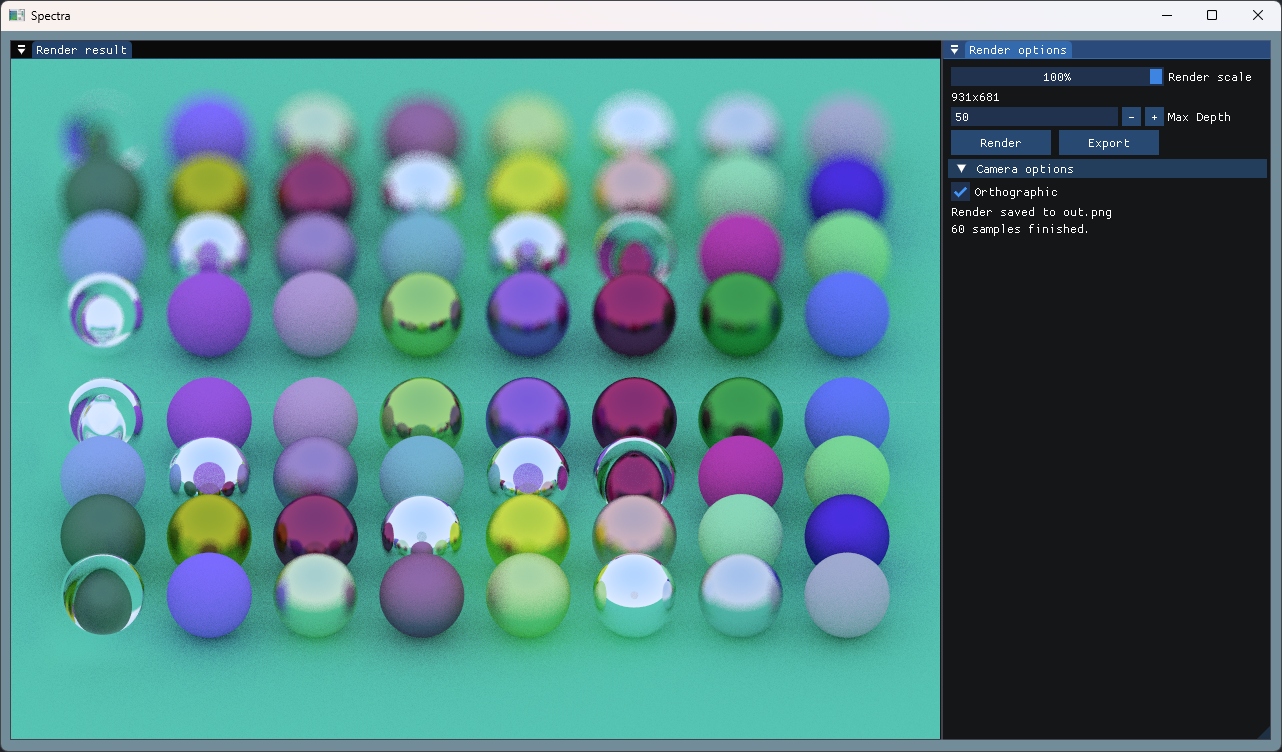
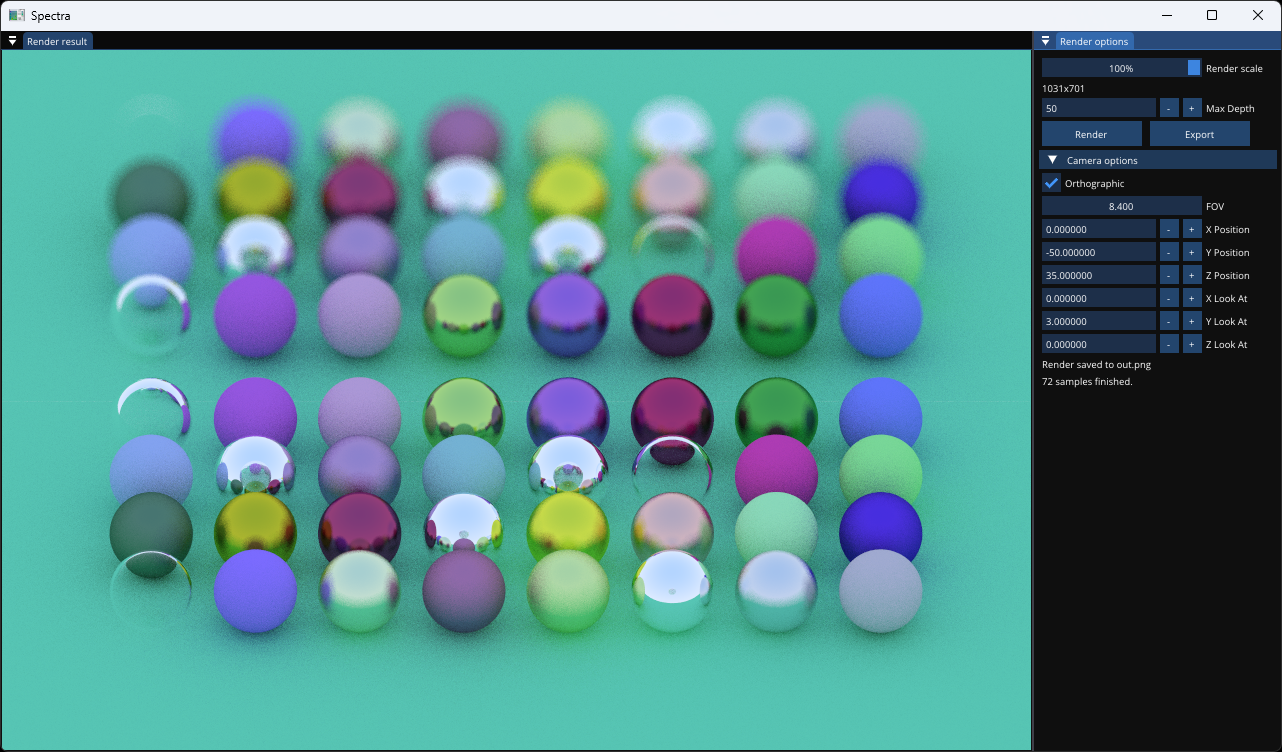
Update gui screenshot & render result

diff --git a/src/main.cpp b/src/main.cpp
@@ -274,17 +274,28 @@ bool LoadTextureFromData(const uint8_t* data, GLuint* out_texture, int image_wid
 
 void createScene(Scene& scene) {
     auto matGround = std::make_shared<Lambertian>(dvec3(0.2, 0.8, 0.5));
-    auto matMirror = std::make_shared<Metal>(dvec3(1, 0.6, 0.8), 0.02);
+    auto matMirror = std::make_shared<Metal>(dvec3(1, 1, 1), 0.02);
 
     scene.addPlane(matGround, dvec3(0, 0, 1), 0);
     scene.addPlane(matMirror, dvec3(0, -1, 0), 3);
 
-    std::shared_ptr<Material> matSphere = std::make_shared<Metal>(dvec3(1), 0);
-    scene.addSphere(matSphere, dvec3(0, 0, 1.5), 1.5);
-
-    matSphere = std::make_shared<Lambertian>(dvec3(1));
-    scene.addSphere(matSphere, dvec3(-4, 0, 1.5), 1.5);
-
-    matSphere = std::make_shared<Lambertian>(dvec3(0.2));
-    scene.addSphere(matSphere, dvec3(4, 0, 1.5), 1.5);
+    for (int i = 0; i < 4; i++) {
+        for (int j = 0; j < 8; j++) {
+            double picker = Spectra::randomDouble();
+            std::shared_ptr<Material> mat;
+            if (picker < 0.33) {
+                dvec3 color = Spectra::randomVec();
+                mat = std::make_shared<Lambertian>(color);
+            } else if (picker < 0.66) {
+                dvec3 color = Spectra::randomVec();
+                double roughness = Spectra::randomDouble();
+                mat = std::make_shared<Metal>(color, roughness);
+            } else {
+                double ior = Spectra::randomDouble();
+                mat = std::make_shared<Dielectric>(ior);
+            }
+            dvec3 position((j-3.5) * 1.25, (i-1.5) * 1.25, 0.5);
+            scene.addSphere(mat, position, 0.5);
+        }
+    }
 }
